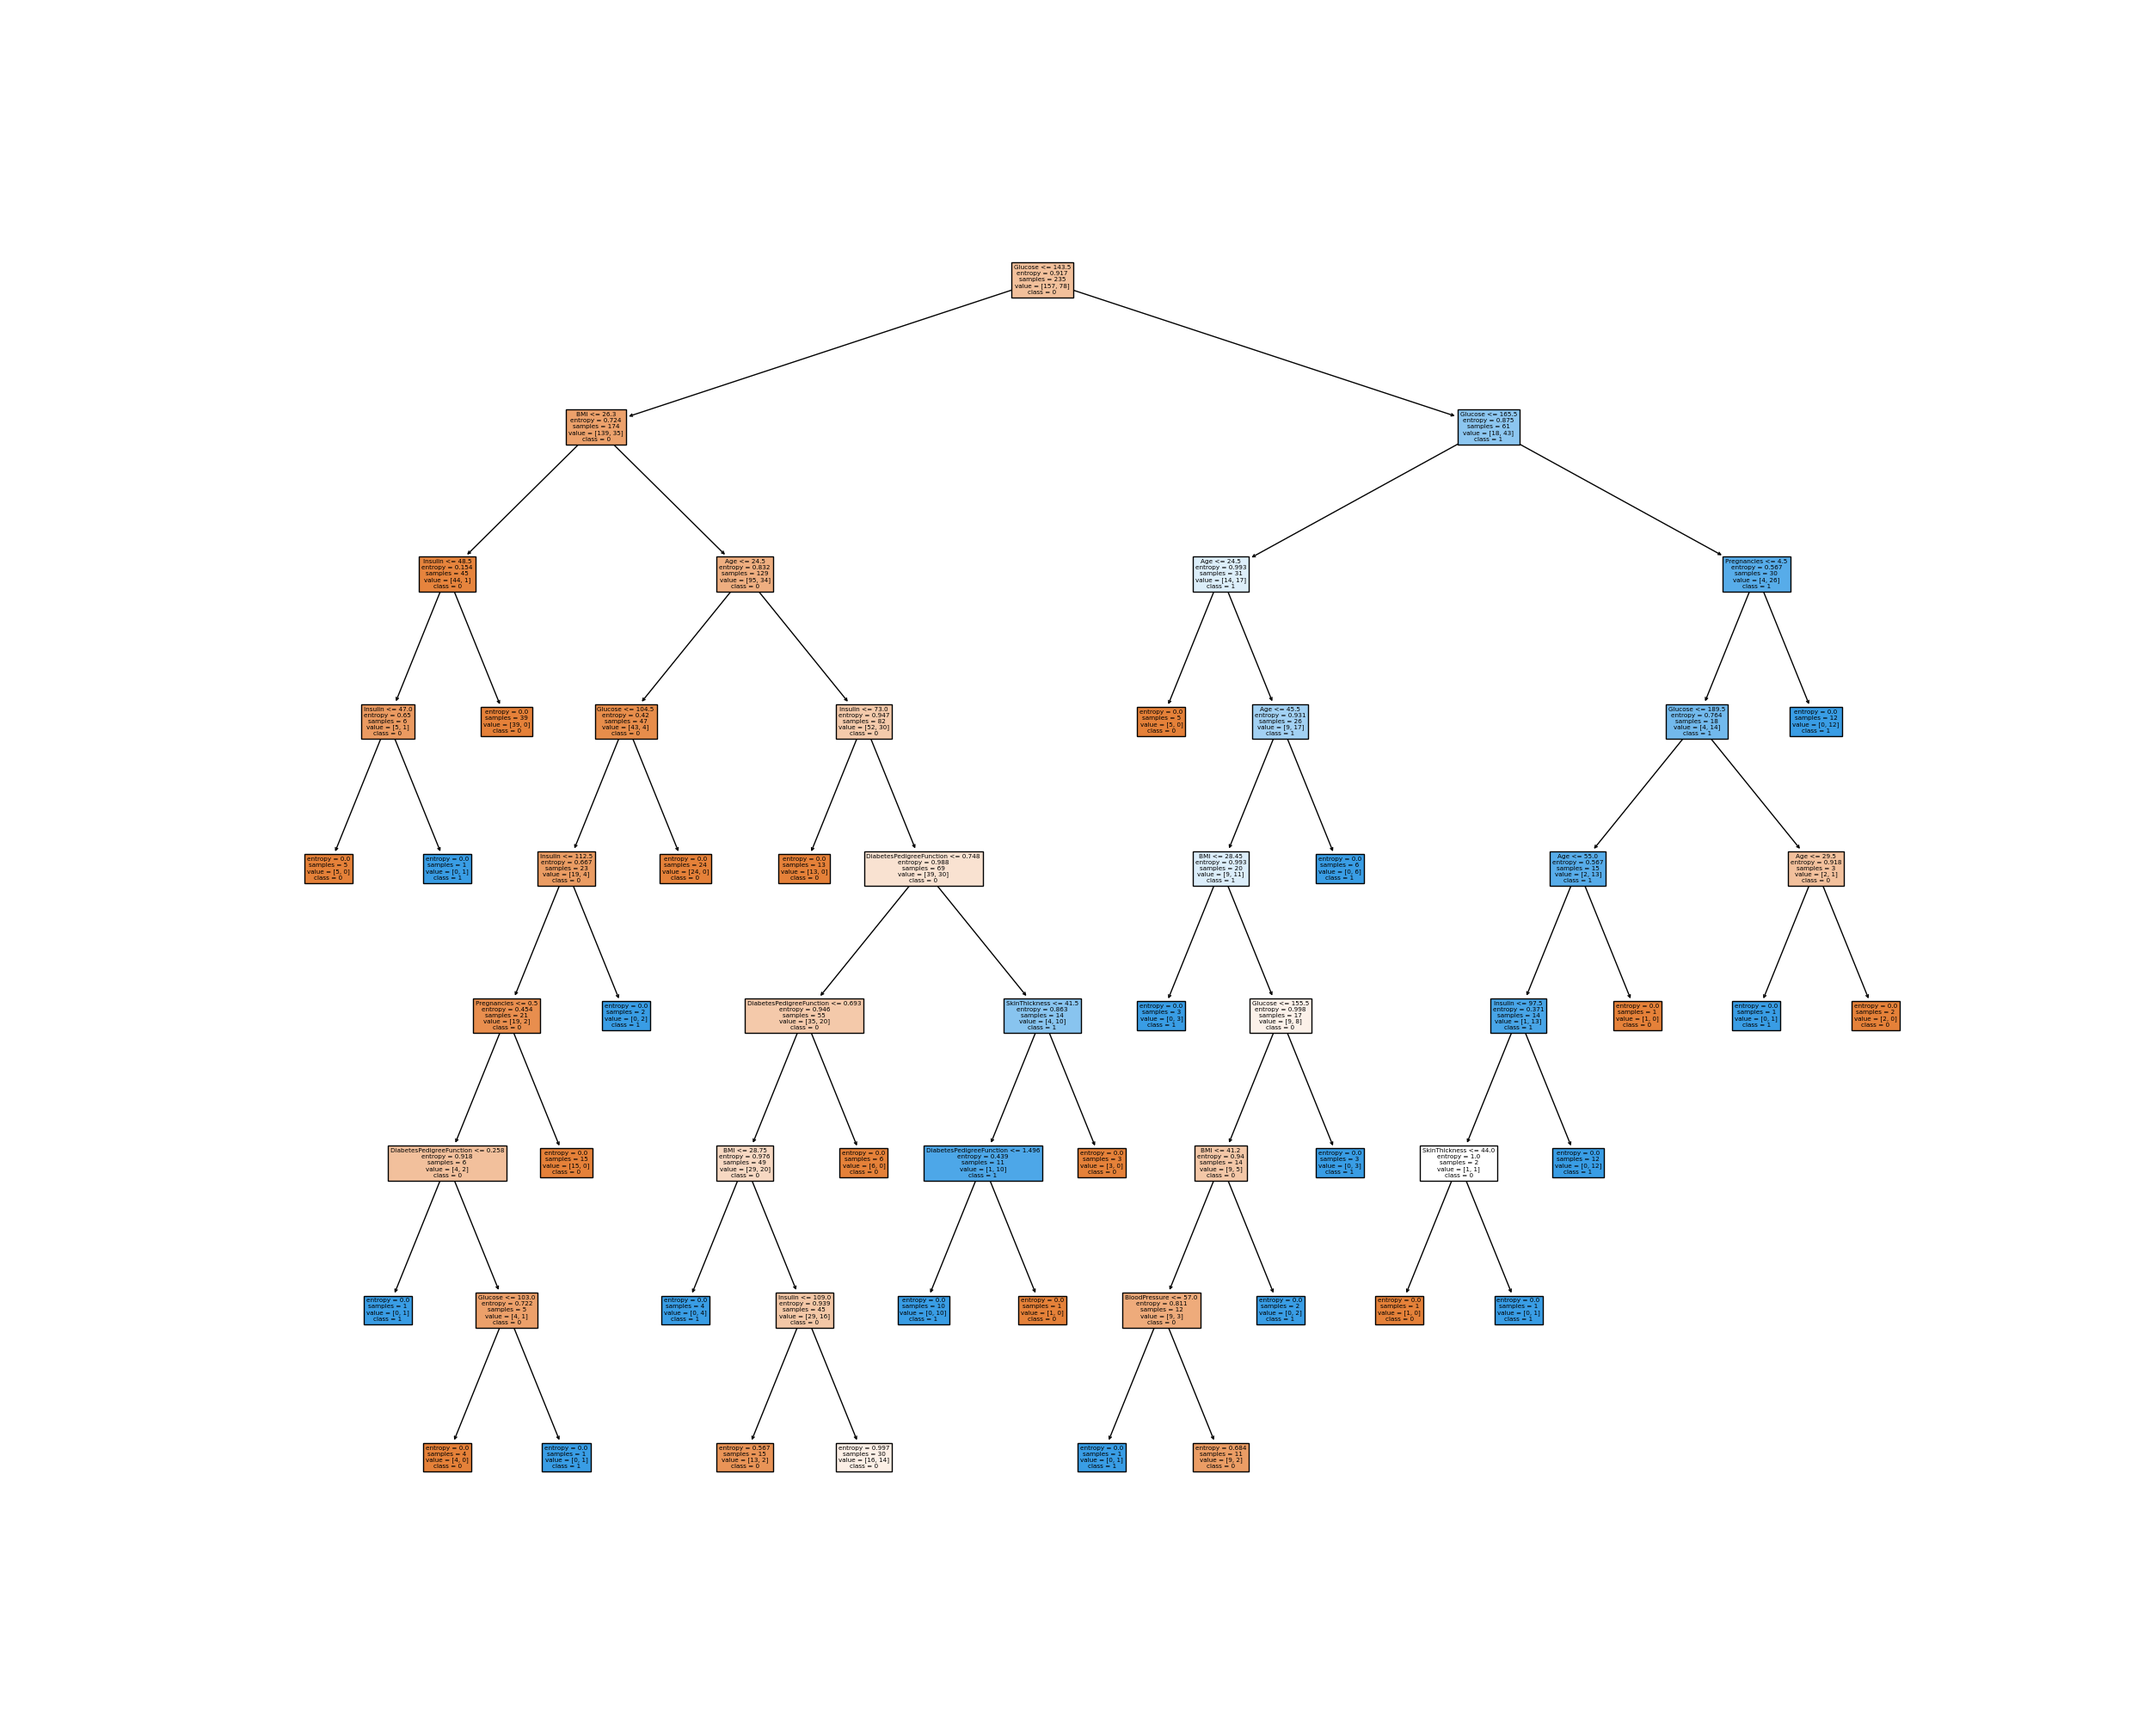
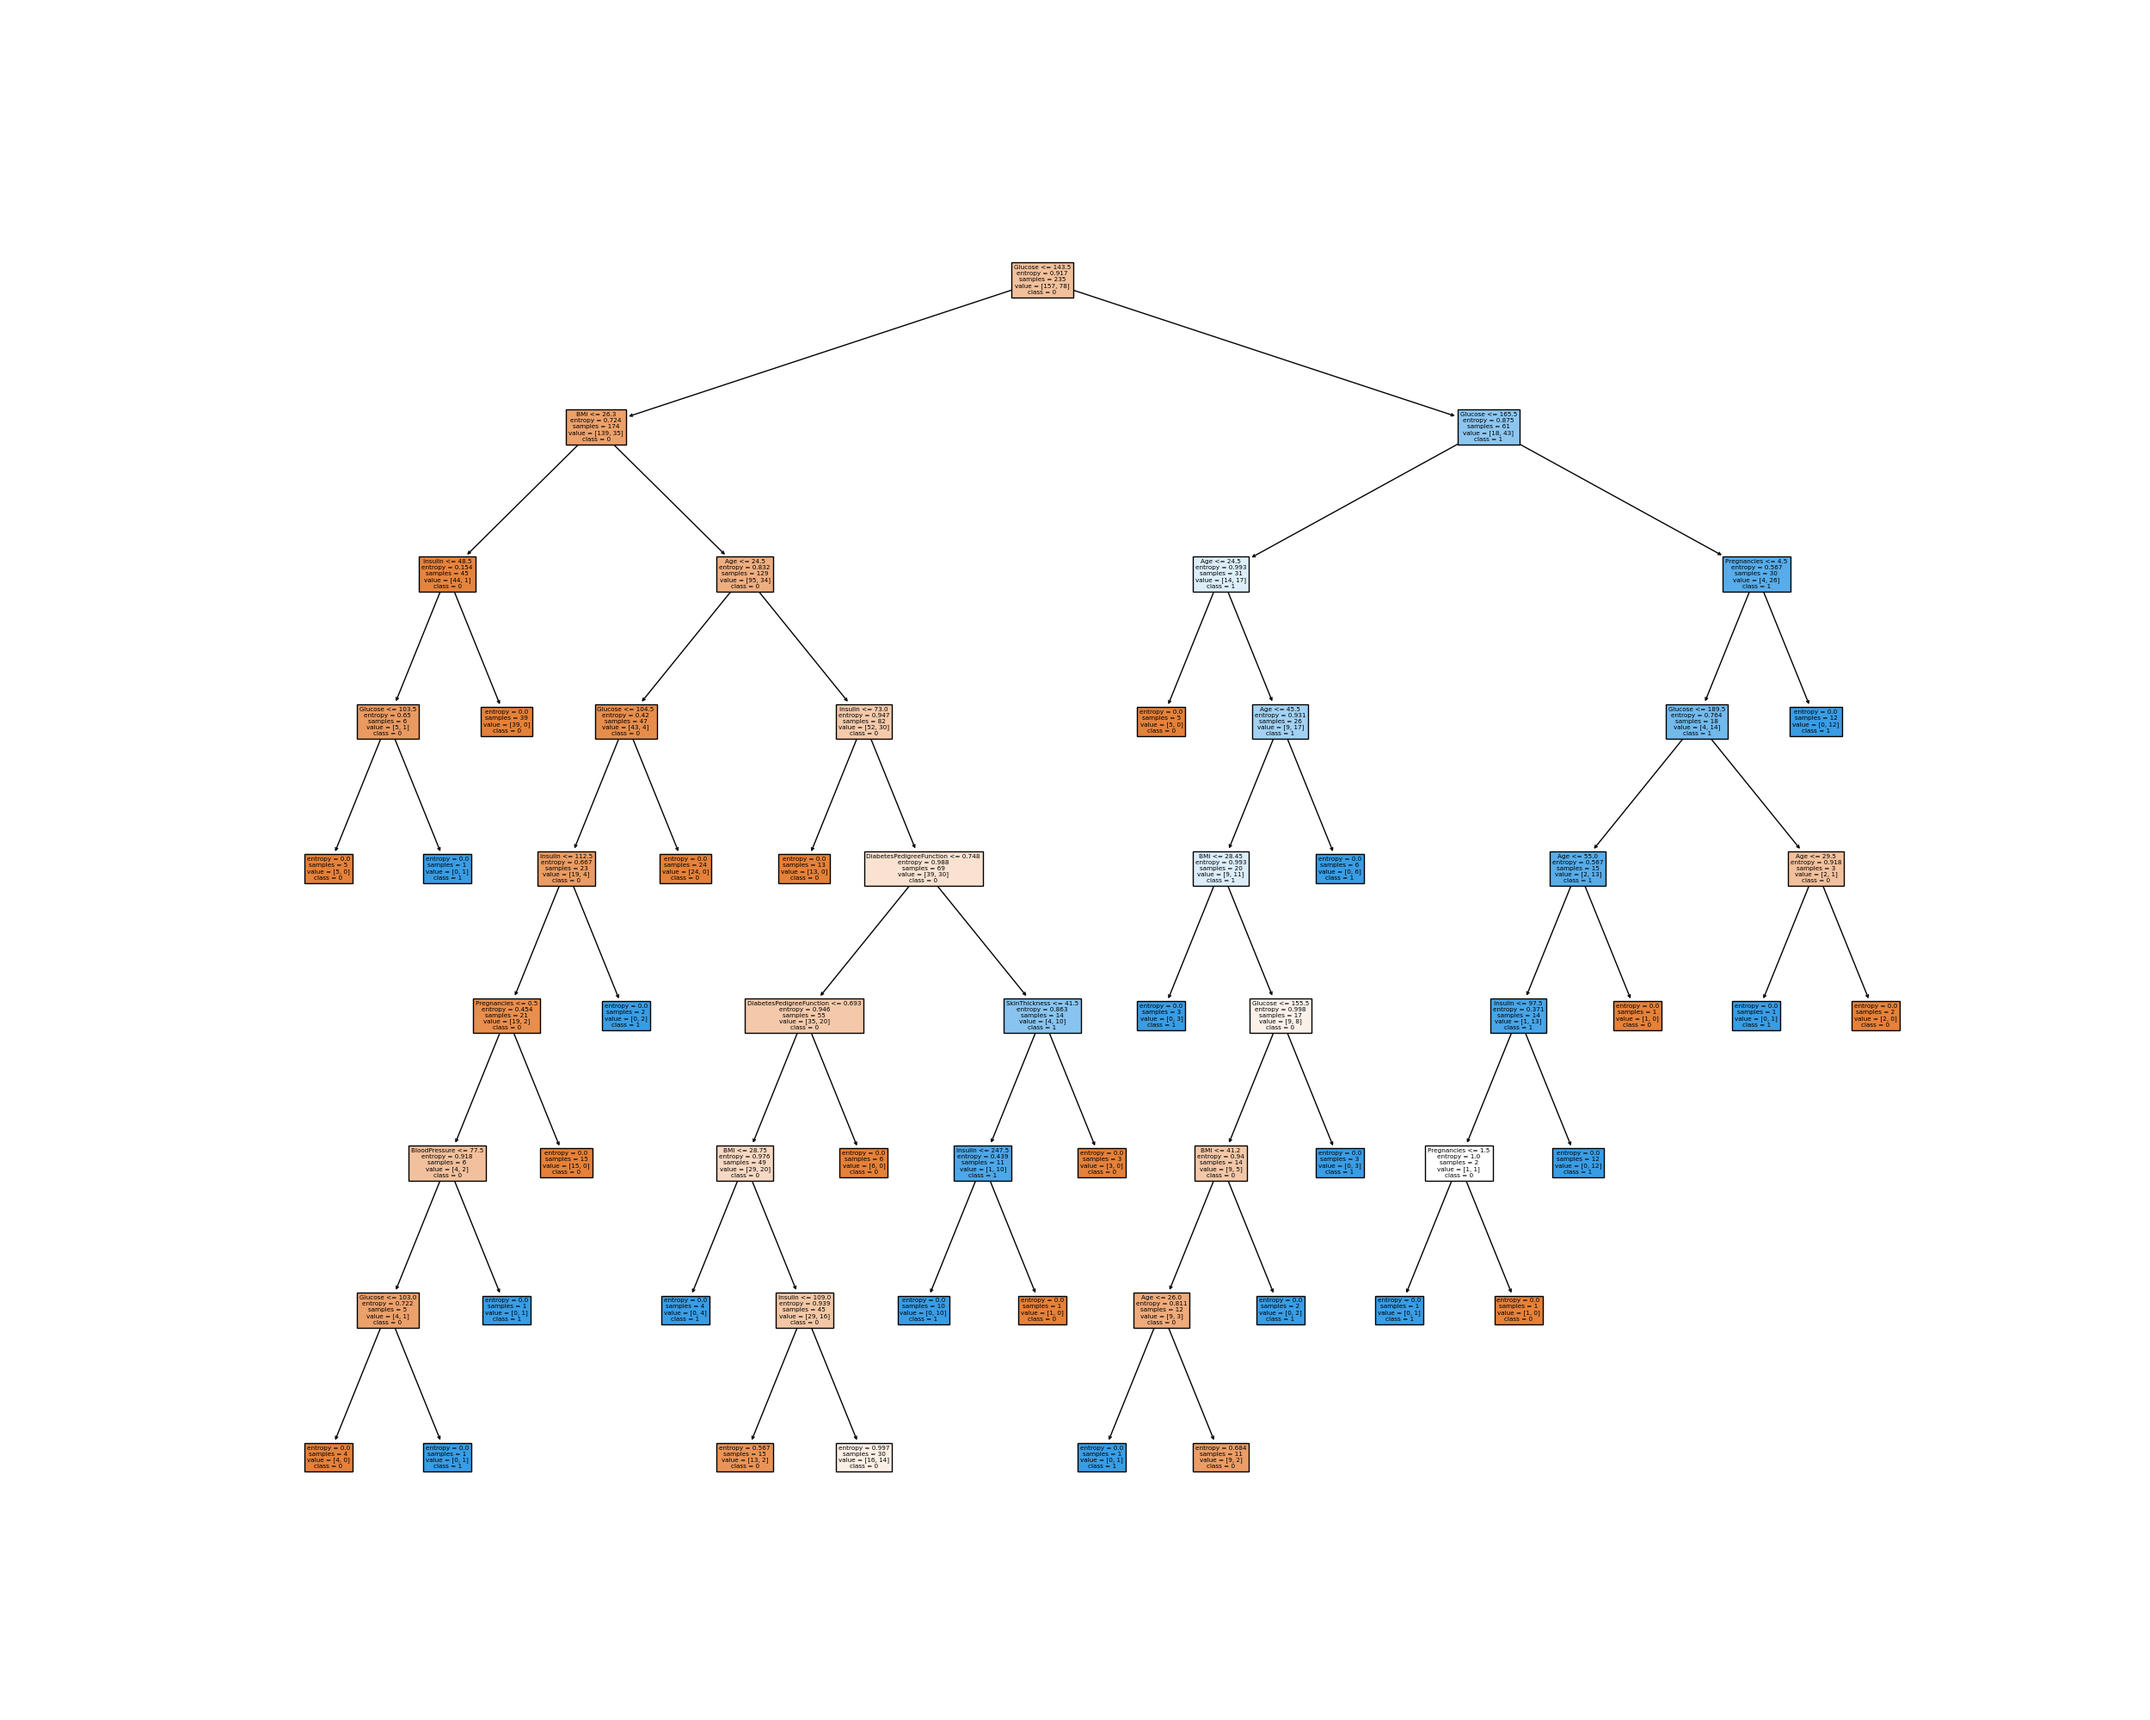
Adding random seed for decision tree

diff --git a/scripts/models.py b/scripts/models.py
@@ -92,7 +92,7 @@ def nb_model(X_train, X_test, y_train):
 
 # Model 4: Decision Tree
 def decisiontree(X_train, X_test, y_train):
-    model = DecisionTreeClassifier(criterion='entropy', max_depth=8)
+    model = DecisionTreeClassifier(criterion='entropy', max_depth=8, random_state=4)
     model.fit(X_train,y_train)
     y_pred = model.predict(X_test)
 
